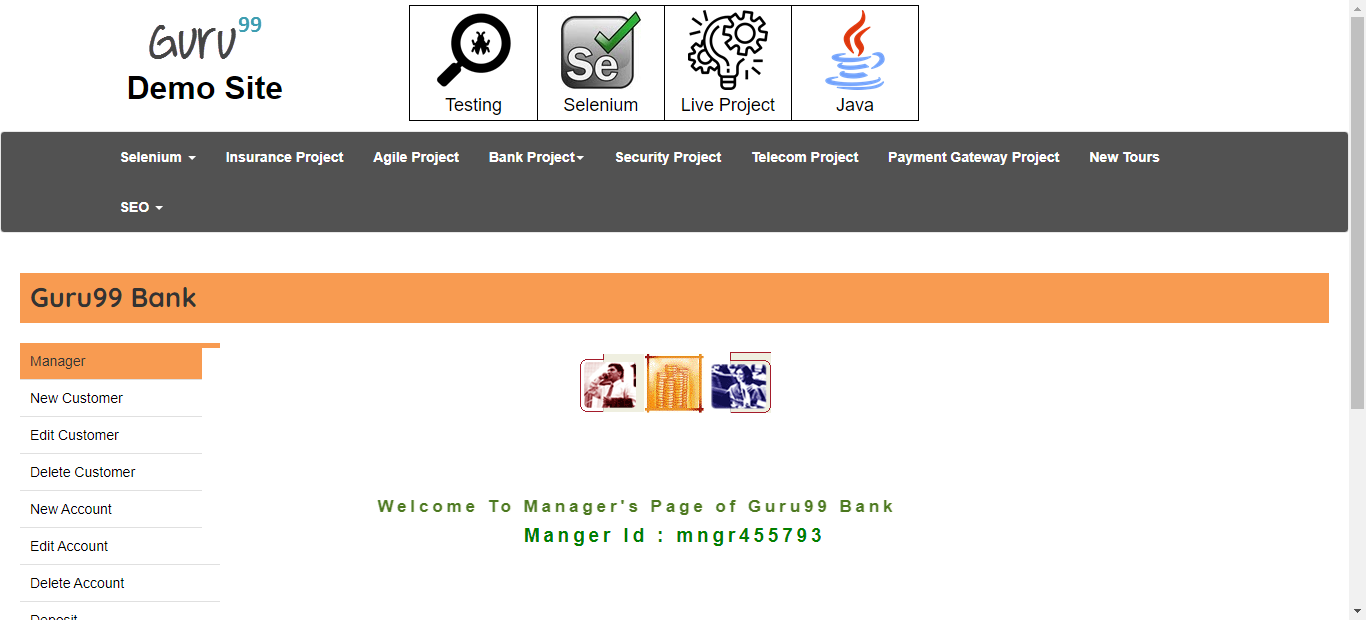
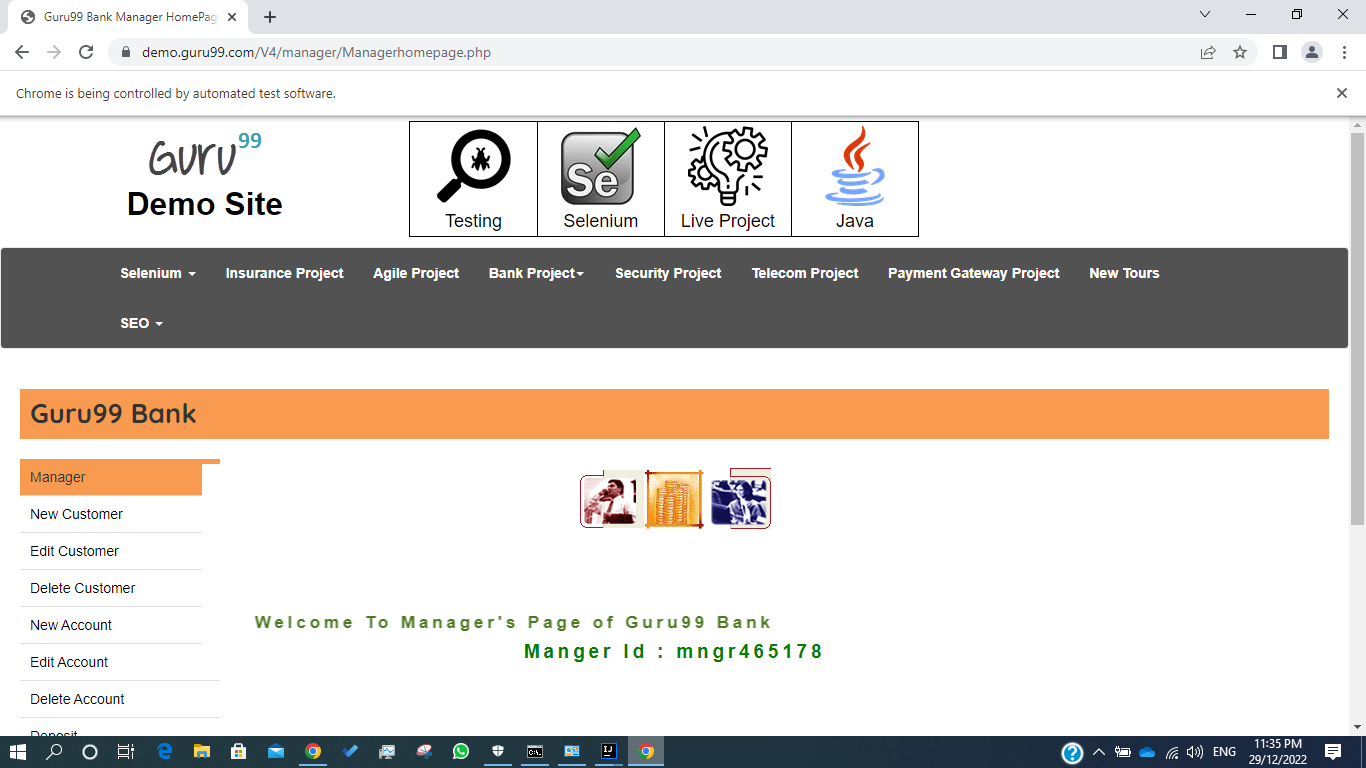
update login credentials

diff --git a/src/test/java/Pages/LoginTest.java b/src/test/java/Pages/LoginTest.java
@@ -22,7 +22,7 @@ public class LoginTest extends BaseTest {
     @DataProvider(name = "validData")
     public Object[][] validInputdata(){
        Object[][]data=new Object[1][2];
-       data[0][0]="mngr455793"; data[0][1]="pebynuj";
+       data[0][0]="mngr465178"; data[0][1]="rAsazev";
        return data;
     }
     @Test(dataProvider = "invalidData")
